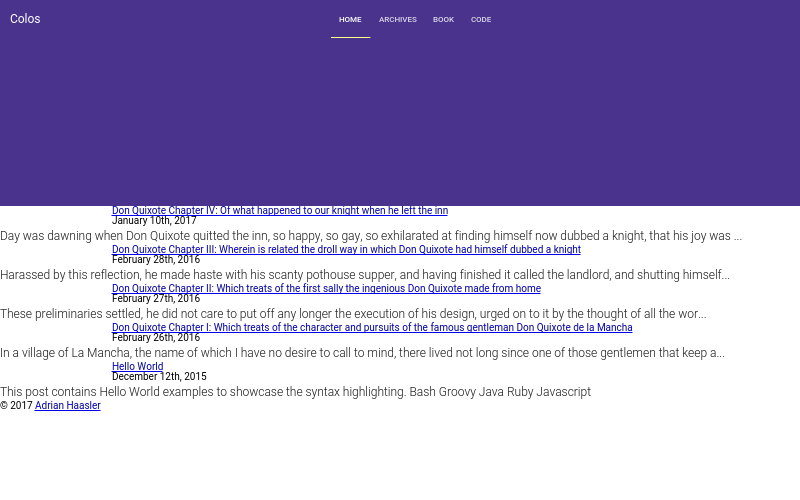
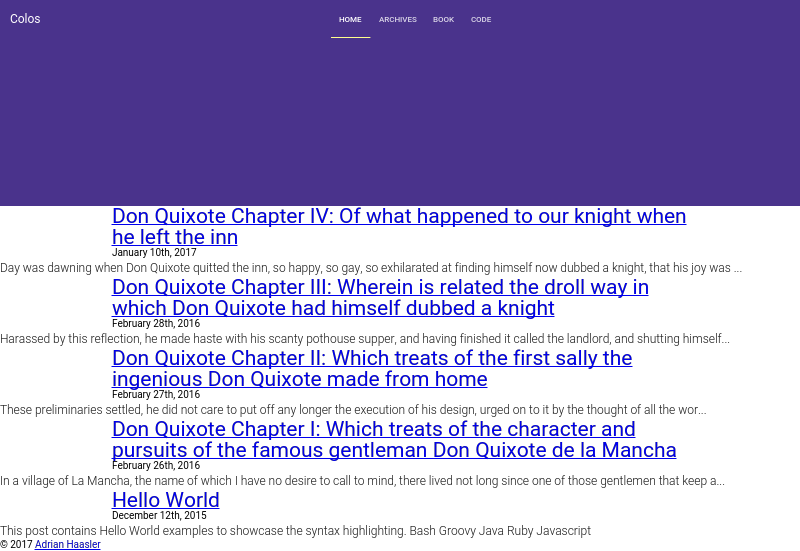
Add heading sizes
Built from 82a2bce7be47c679640a7dfc66a5929d64902f73.

Changed region(s): [[0.0, 0.36, 1.0, 1.0], [0.4062, 0.03, 0.625, 0.09], [0.0, 0.03, 0.0625, 0.06]]

diff --git a/source/css/main.css b/source/css/main.css
@@ -3,4 +3,4 @@ http://meyerweb.com/eric/tools/css/reset/
 v2.0 | 20110126
 License: none (public domain)
 */a,abbr,acronym,address,applet,article,aside,audio,b,big,blockquote,body,canvas,caption,center,cite,code,dd,del,details,dfn,div,dl,dt,em,embed,fieldset,figcaption,figure,footer,form,h1,h2,h3,h4,h5,h6,header,hgroup,html,i,iframe,img,ins,kbd,label,legend,li,mark,menu,nav,object,ol,output,p,pre,q,ruby,s,samp,section,small,span,strike,strong,sub,summary,sup,table,tbody,td,tfoot,th,thead,time,tr,tt,u,ul,var,video{margin:0;padding:0;border:0;font-size:100%;font:inherit;vertical-align:baseline}
-/* HTML5 display-role reset for older browsers */article,aside,details,figcaption,figure,footer,header,hgroup,menu,nav,section{display:block}body{line-height:1}ol,ul{list-style:none}blockquote,q{quotes:none}blockquote:after,blockquote:before,q:after,q:before{content:"";content:none}table{border-collapse:collapse;border-spacing:0}h1,h2,h3,h4,h5,h6{color:rgba(0,0,0,.9)}body{font-family:Roboto,sans-serif}.post-content{color:#212121;line-height:1.6;font-size:1.25em;font-weight:300}.post-content p{margin-bottom:1em}.highlight,pre{font-family:Roboto Mono,monospace;font-size:.83em;line-height:1.2em}.highlight .line,pre .line{height:1.2em}app-drawer-layout>#contentContainer:not(.narrow){margin-left:0!important}app-drawer-layout>#contentContainer:not(.narrow)+app-drawer{visibility:hidden!important}app-drawer-layout>.narrow paper-tabs{display:none!important}app-header{color:#fff;background-color:#7c4dff}app-header #backgroundFrontLayer{background-position:50%}app-header #backgroundFrontLayer:before{content:"";display:block;position:absolute;top:0;bottom:0;left:0;right:0;background:rgba(25,25,25,.5)}app-toolbar.middle{height:10em}app-toolbar.bottom{height:4em}app-toolbar a{color:#fff;text-decoration:none}app-toolbar [main-title]{position:absolute;margin-left:2em;font-size:1.6em;font-weight:300}app-toolbar [condensed-title]{max-width:0}app-toolbar paper-tabs{height:100%!important}app-toolbar paper-tabs paper-tab{text-transform:uppercase}app-toolbar paper-tabs paper-tab[link] a{padding:0 1em}.page-content .wrapper h1,.page-content .wrapper h2,.page-content .wrapper h3,.page-content .wrapper h4,.page-content .wrapper h5,.page-content .wrapper h6,.page-content .wrapper header,.page-content .wrapper p,.page-content .wrapper table{max-width:960px;width:100%;margin:0 auto}.highlight{padding:.4em 0}.highlight .gutter{width:1.3em;text-align:right}.highlight .code{padding-left:1.4em}.archives-wrap:nth-child(3n+0){background-color:#ede7f6}.archives-wrap:nth-child(3n+2){background-color:#d1c4e9}.highlight{background:#fafafa;border:solid #e0e0e0;border-width:1px 0}.highlight,pre{color:#212121}.highlight .string,pre .string{color:#f9a825}.highlight .comment,pre .comment{color:#727272}.highlight .keyword,pre .keyword{color:#ad1457}.highlight .built_in,pre .built_in{color:#00838f}.highlight .number,.literal,pre .number{color:#4527a0}.highlight.bash .shebang,pre.bash .shebang{color:#727272}.highlight.bash .variable,pre.bash .variable{color:#b6b6b6}.highlight.bash .title,pre.bash .title{color:#558b2f}.gutter pre{color:#757575}
+/* HTML5 display-role reset for older browsers */article,aside,details,figcaption,figure,footer,header,hgroup,menu,nav,section{display:block}body{line-height:1}ol,ul{list-style:none}blockquote,q{quotes:none}blockquote:after,blockquote:before,q:after,q:before{content:"";content:none}table{border-collapse:collapse;border-spacing:0}h1,h2,h3,h4,h5,h6{color:rgba(0,0,0,.9)}body{font-family:Roboto,sans-serif}.post-content{color:#212121;line-height:1.6;font-size:1.25em;font-weight:300}.post-content p{margin-bottom:1em}h1{font-size:2.2em}h2{font-size:2em}h3{font-size:1.8em}h4{font-size:1.6em}h5{font-size:1.4em}h6{font-size:1.2em}.highlight,pre{font-family:Roboto Mono,monospace;font-size:.83em;line-height:1.2em}.highlight .line,pre .line{height:1.2em}app-drawer-layout>#contentContainer:not(.narrow){margin-left:0!important}app-drawer-layout>#contentContainer:not(.narrow)+app-drawer{visibility:hidden!important}app-drawer-layout>.narrow paper-tabs{display:none!important}app-header{color:#fff;background-color:#7c4dff}app-header #backgroundFrontLayer{background-position:50%}app-header #backgroundFrontLayer:before{content:"";display:block;position:absolute;top:0;bottom:0;left:0;right:0;background:rgba(25,25,25,.5)}app-toolbar.middle{height:10em}app-toolbar.bottom{height:4em}app-toolbar a{color:#fff;text-decoration:none}app-toolbar [main-title]{position:absolute;margin-left:2em;font-size:1.6em;font-weight:300}app-toolbar [condensed-title]{max-width:0}app-toolbar paper-tabs{height:100%!important}app-toolbar paper-tabs paper-tab{text-transform:uppercase}app-toolbar paper-tabs paper-tab[link] a{padding:0 1em}.page-content .wrapper h1,.page-content .wrapper h2,.page-content .wrapper h3,.page-content .wrapper h4,.page-content .wrapper h5,.page-content .wrapper h6,.page-content .wrapper header,.page-content .wrapper p,.page-content .wrapper table{max-width:960px;width:100%;margin:0 auto}.highlight{padding:.4em 0}.highlight .gutter{width:1.3em;text-align:right}.highlight .code{padding-left:1.4em}.archives-wrap:nth-child(3n+0){background-color:#ede7f6}.archives-wrap:nth-child(3n+2){background-color:#d1c4e9}.highlight{background:#fafafa;border:solid #e0e0e0;border-width:1px 0}.highlight,pre{color:#212121}.highlight .string,pre .string{color:#f9a825}.highlight .comment,pre .comment{color:#727272}.highlight .keyword,pre .keyword{color:#ad1457}.highlight .built_in,pre .built_in{color:#00838f}.highlight .number,.literal,pre .number{color:#4527a0}.highlight.bash .shebang,pre.bash .shebang{color:#727272}.highlight.bash .variable,pre.bash .variable{color:#b6b6b6}.highlight.bash .title,pre.bash .title{color:#558b2f}.gutter pre{color:#757575}
